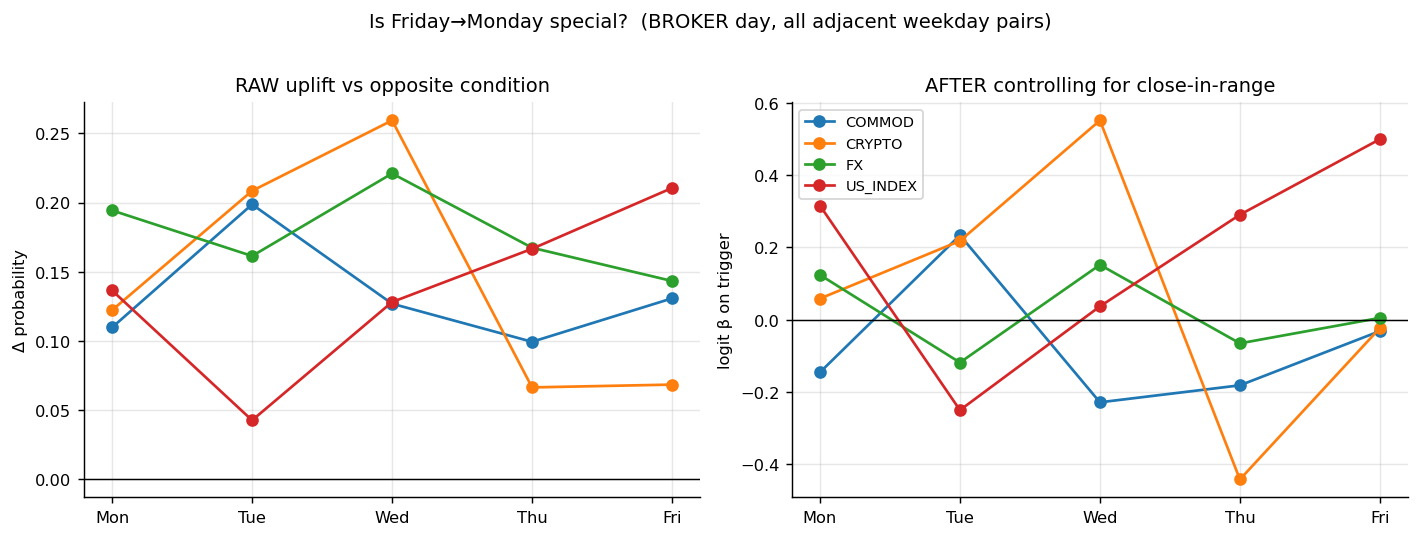
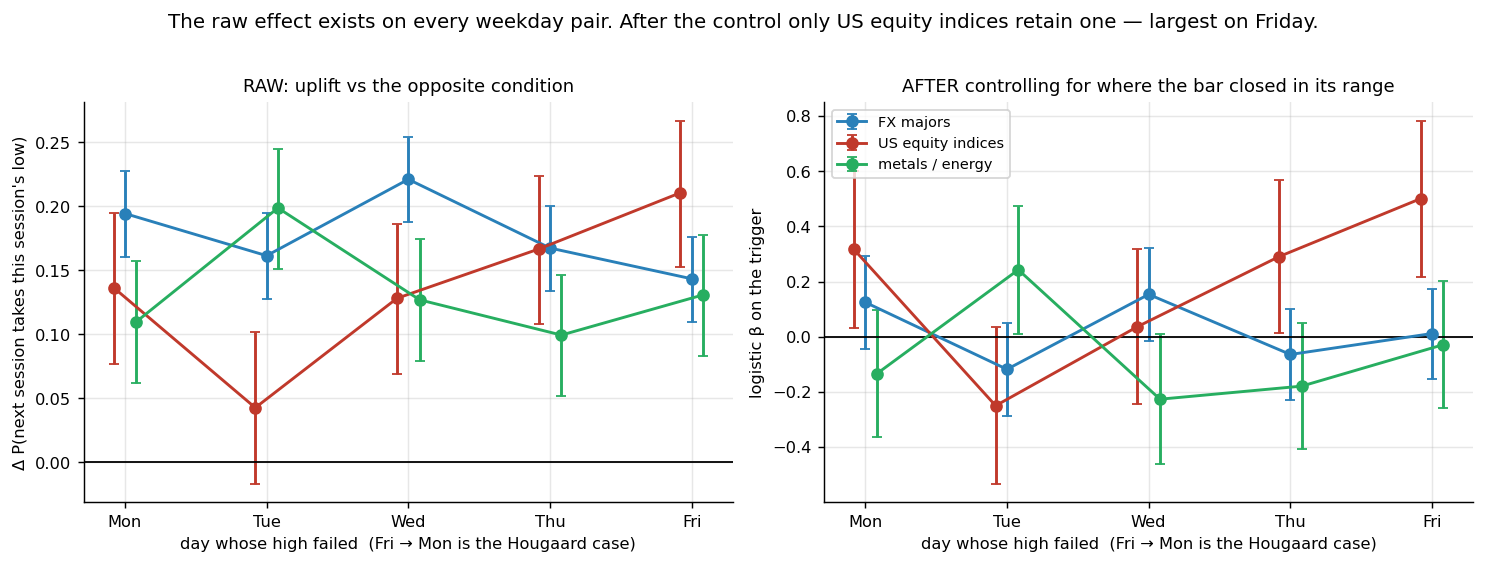
Correct the weekday claim: after control, an effect remains only in US equity indices, largest on Friday but marginally present Mon and Thu
The earlier wording ('only the Friday cell survives') over-stated the per-weekday
evidence. Weekday-by-weekday controlled betas with CIs are now reported, and the
adjacent-weekday chart rebuilt with error bars.

diff --git a/src/chart02_fix.py b/src/chart02_fix.py
@@ -1,0 +1,59 @@
+import sys, os
+from pathlib import Path
+os.environ.setdefault("MPLCONFIGDIR","/tmp/mpl")
+import numpy as np, pandas as pd, matplotlib; matplotlib.use("Agg")
+import matplotlib.pyplot as plt
+sys.path.insert(0, str(Path(__file__).resolve().parent))
+from sessionlib import DERIVED, OUT
+from stats_util import newcombe_diff
+T = pd.read_parquet(DERIVED/"triples"/"triples_duka.parquet")
+T["grp"] = np.where(T.instrument.isin(["NAS100","US500"]),"US equity indices",
+            np.where(T.asset_class=="FX","FX majors",
+            np.where(T.instrument=="BTCUSD","crypto","metals / energy")))
+def logit_fit(X,y,ridge=1e-4,iters=200):
+    X=np.asarray(X,float);y=np.asarray(y,float);b=np.zeros(X.shape[1])
+    for _ in range(iters):
+        eta=X@b;p=1/(1+np.exp(-np.clip(eta,-30,30)));W=np.clip(p*(1-p),1e-8,None)
+        H=X.T@(X*W[:,None])+ridge*np.eye(X.shape[1]);g=X.T@(y-p)-ridge*b
+        s=np.linalg.solve(H,g);b=b+s
+        if np.max(np.abs(s))<1e-9:break
+    eta=X@b;p=1/(1+np.exp(-np.clip(eta,-30,30)));W=np.clip(p*(1-p),1e-8,None)
+    return b,np.sqrt(np.diag(np.linalg.inv(X.T@(X*W[:,None])+ridge*np.eye(X.shape[1]))))
+rows=[]
+for sdef in ["BROKER"]:
+    for wd in range(5):
+        for grp,g in T[(T.sessdef==sdef)&(T.B_wd==wd)].groupby("grp"):
+            if grp=="crypto": continue
+            t,o=g[g.trig_down],g[~g.trig_down]
+            lo,hi=newcombe_diff(int(t.touch_low.sum()),len(t),int(o.touch_low.sum()),len(o))
+            d=g.dropna(subset=["atr_at_B"]); d=d[d.B_range>0]
+            X=np.column_stack([np.ones(len(d)),d.trig_down.astype(float),
+                               (d.B_close-d.B_low)/d.atr_at_B, d.B_range/d.atr_at_B])
+            for i in sorted(d.instrument.unique())[1:]:
+                X=np.column_stack([X,(d.instrument==i).astype(float)])
+            b,se=logit_fit(X,d.touch_low.values.astype(float))
+            rows.append(dict(wd=["Mon","Tue","Wed","Thu","Fri"][wd],grp=grp,
+                             raw=t.touch_low.mean()-o.touch_low.mean(),raw_lo=lo,raw_hi=hi,
+                             beta=b[1],se=se[1]))
+D=pd.DataFrame(rows); order=["Mon","Tue","Wed","Thu","Fri"]
+COL={"US equity indices":"#c0392b","FX majors":"#2980b9","metals / energy":"#27ae60"}
+plt.rcParams.update({"figure.dpi":130,"font.size":9,"axes.grid":True,"grid.alpha":.3,
+                     "axes.spines.top":False,"axes.spines.right":False})
+fig,axes=plt.subplots(1,2,figsize=(11.5,4.2))
+for grp,g in D.groupby("grp"):
+    g=g.set_index("wd").reindex(order); x=np.arange(5)
+    off={"US equity indices":-.08,"FX majors":0,"metals / energy":.08}[grp]
+    axes[0].errorbar(x+off,g.raw,yerr=[g.raw-g.raw_lo,g.raw_hi-g.raw],marker="o",capsize=3,
+                     color=COL[grp],label=grp,lw=1.6)
+    axes[1].errorbar(x+off,g.beta,yerr=1.96*g.se,marker="o",capsize=3,color=COL[grp],label=grp,lw=1.6)
+for ax,t_ in zip(axes,["RAW: uplift vs the opposite condition",
+                       "AFTER controlling for where the bar closed in its range"]):
+    ax.axhline(0,c="k",lw=1); ax.set_xticks(np.arange(5)); ax.set_xticklabels(order); ax.set_title(t_,fontsize=10)
+axes[0].set_ylabel("Δ P(next session takes this session's low)")
+axes[1].set_ylabel("logistic β on the trigger")
+axes[0].set_xlabel("day whose high failed  (Fri → Mon is the Hougaard case)")
+axes[1].set_xlabel("day whose high failed  (Fri → Mon is the Hougaard case)")
+axes[1].legend(fontsize=8,loc="upper left")
+fig.suptitle("The raw effect exists on every weekday pair. After the control only US equity indices retain one — largest on Friday.",y=1.02,fontsize=11)
+fig.tight_layout(); fig.savefig(OUT/"charts"/"02_adjacent_weekday.png",bbox_inches="tight")
+print(D.to_string(index=False,float_format=lambda x:f"{x:.3f}"))

diff --git a/research/REPORT.md b/research/REPORT.md
@@ -185,9 +185,13 @@ The identical construction produces large raw uplifts on every adjacent weekday 
 (+0.05 to +0.22), at the weekly scale (+0.08 to +0.22, significant in 12/12 instruments), and
 across Asia → London → New York session blocks (+0.06 to +0.18, significant in 16/16 cells).
 After the close-in-range control, essentially all of them collapse to zero: weekly β ≈ 0 in
-12/12; intraday β significant in only 2/16. The **only** surviving cell in the entire study is
-US equity indices, Friday → Monday — where the coefficient is about three times that of the
-other weekday pairs.
+12/12; intraday β significant in only 2/16. The only asset class in which anything survives is
+US equity indices. Within it, weekday by weekday (controlled β, 95% CI): Mon 0.32 (0.03–0.60),
+Tue −0.25 (−0.53–0.03), Wed 0.04 (−0.25–0.32), Thu 0.29 (0.01–0.57), **Fri 0.50 (0.22–0.78)**.
+Friday is the largest and the cleanest, but Monday and Thursday are marginally positive as
+well; the pooled Mon–Thu coefficient (0.091, z = 1.28) is small only because Tuesday and
+Wednesday offset them. So Friday is *the strongest* case of a US-equity-index effect, not the
+*only* one.
 
 So Outcome E of the original brief is the right description of the general case — this is a
 failed-extreme/next-bar continuation *appearance* that is mostly tautological — with Outcome D
